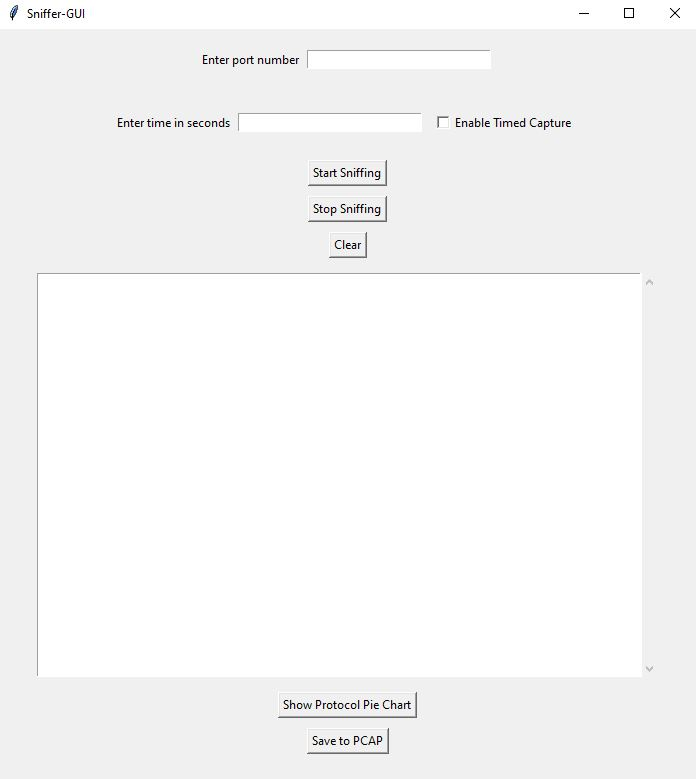
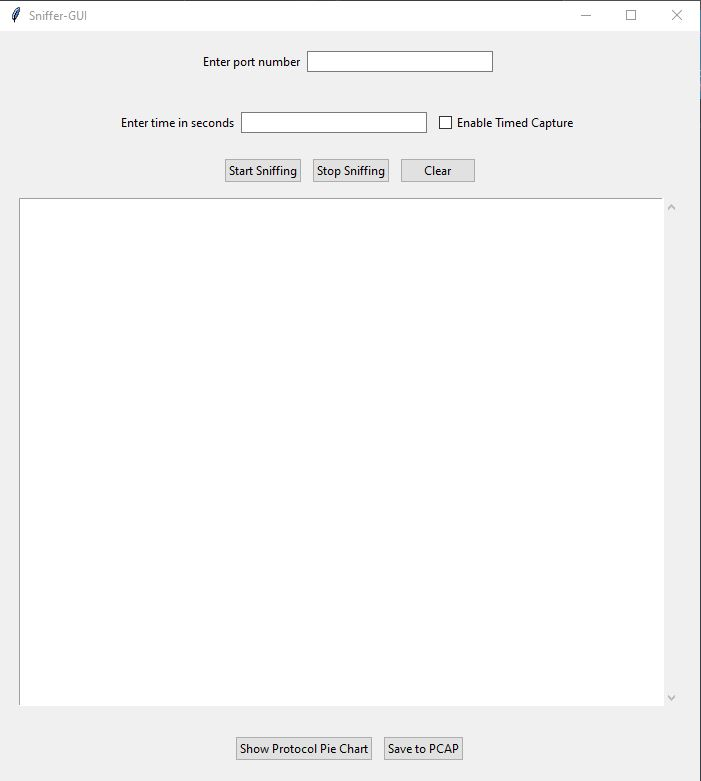
Updated GUI Layout
Improve GUI Layout and enable vertical scaling for scrolling text

diff --git a/sniffer_gui.py b/sniffer_gui.py
@@ -1,8 +1,7 @@
 from scapy.all import *
 import tkinter as tk
-from tkinter import scrolledtext
+from tkinter import filedialog,ttk,scrolledtext
 import threading
-from tkinter import filedialog
 import time
 import matplotlib.pyplot as plt
 from sniffer_core import( packet_callback, set_output_callback,get_packets,
@@ -165,52 +164,59 @@ port_frame = tk.Frame(root)
 port_frame.pack(pady=20)
 
 
-port_label = tk.Label(port_frame, text="Enter port number")
+port_label = ttk.Label(port_frame, text="Enter port number")
 port_label.pack(side=tk.LEFT)
 
 
-port_field = tk.Entry(port_frame, width=30)
+port_field = ttk.Entry(port_frame, width=30)
 port_field.pack(side=tk.LEFT, padx=5)
 
 # Create a frame to hold label,input, and button for timed start
-timed_frame = tk.Frame(root)
+timed_frame = ttk.Frame(root)
 timed_frame.pack(pady=20)
 
 
-timed_label = tk.Label(timed_frame, text="Enter time in seconds")
+timed_label = ttk.Label(timed_frame, text="Enter time in seconds")
 timed_label.pack(side=tk.LEFT)
 
 
-time_field = tk.Entry(timed_frame, width=30)
+time_field = ttk.Entry(timed_frame, width=30)
 time_field.pack(side=tk.LEFT, padx=5)
 
 # Variable to hold the state of the checkbox (0 = unchecked, 1 = checked)
 timed_check_var = tk.IntVar()
 
 # Create the checkbox
-timed_check = tk.Checkbutton(timed_frame, text="Enable Timed Capture", variable=timed_check_var)
+timed_check = ttk.Checkbutton(timed_frame, text="Enable Timed Capture", variable=timed_check_var)
 timed_check.pack(side=tk.LEFT,padx=5)
 
-# Create a buttons
-run_button = tk.Button(root, text="Start Sniffing", command=check_mode)
-run_button.pack(pady=5)
 
-stop_button = tk.Button(root, text="Stop Sniffing", command=do_stop)
-stop_button.pack(pady=5)
+#Frame for Action buttons such as run, stop ,and clear
+actions_frame = tk.Frame(root)
+actions_frame.pack(pady=5)
+# Create a buttons
+run_button = ttk.Button(actions_frame, text="Start Sniffing", command=check_mode)
+run_button.pack(side=tk.LEFT,padx=5)
+
+stop_button = ttk.Button(actions_frame, text="Stop Sniffing", command=do_stop)
+stop_button.pack(side=tk.LEFT,padx=5)
                  
-clear_button = tk.Button(root, text="Clear", command=do_clear)
-clear_button.pack(pady=5)
+clear_button = ttk.Button(actions_frame, text="Clear", command=do_clear)
+clear_button.pack(side=tk.LEFT,padx=5)
+
 
 
 # Create a text area for output
-output_area = scrolledtext.ScrolledText(root, wrap=tk.WORD, width=75, height=25,state='disabled')
-output_area.pack(padx=10, pady=10)
+output_area = scrolledtext.ScrolledText(root, wrap=tk.WORD)
+output_area.pack(fill=tk.Y, expand=True, padx=10, pady=10)
 
-chart_button = tk.Button(root, text="Show Protocol Pie Chart", command=show_pie_chart)
-chart_button.pack(pady=5)
+bottom_frame = tk.Frame(root)
+bottom_frame.pack(pady=20)
+chart_button = ttk.Button(bottom_frame, text="Show Protocol Pie Chart", command=show_pie_chart)
+chart_button.pack(side=tk.LEFT,padx=5)
 
-save_button = tk.Button(root, text="Save to PCAP", command=do_save)
-save_button.pack(pady=5)
+save_button = ttk.Button(bottom_frame, text="Save to PCAP", command=do_save)
+save_button.pack(side=tk.LEFT,padx=5)
 
 # Start the GUI event loop
 root.mainloop()
